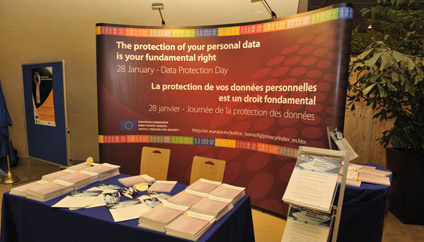
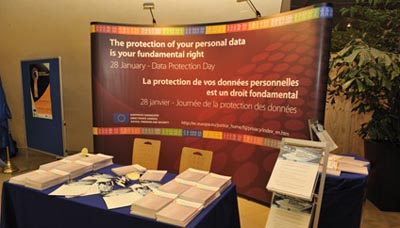
resize images at 400px width to eliminate app lag

diff --git a/www/js/events/event-schedule.html b/www/js/events/event-schedule.html
@@ -1,6 +1,6 @@
 <ion-view title="Ma Visite">
   <ion-content>
-    <div class="list">
+    <div class="list" ng-if="vm.sessions && vm.sessions.length > 0">
       <div class="item item-timeline" ng-repeat="session in vm.sessions | orderBy:'start'" ui-sref="app.event.scheduleSession({sessionId: session.uuid})">
         <h2>{{session.name}}</h2>
         <p>{{session.start | humanTime}} - {{session.start | humanDuration:session.end}} - {{session.place | place}}</p>
